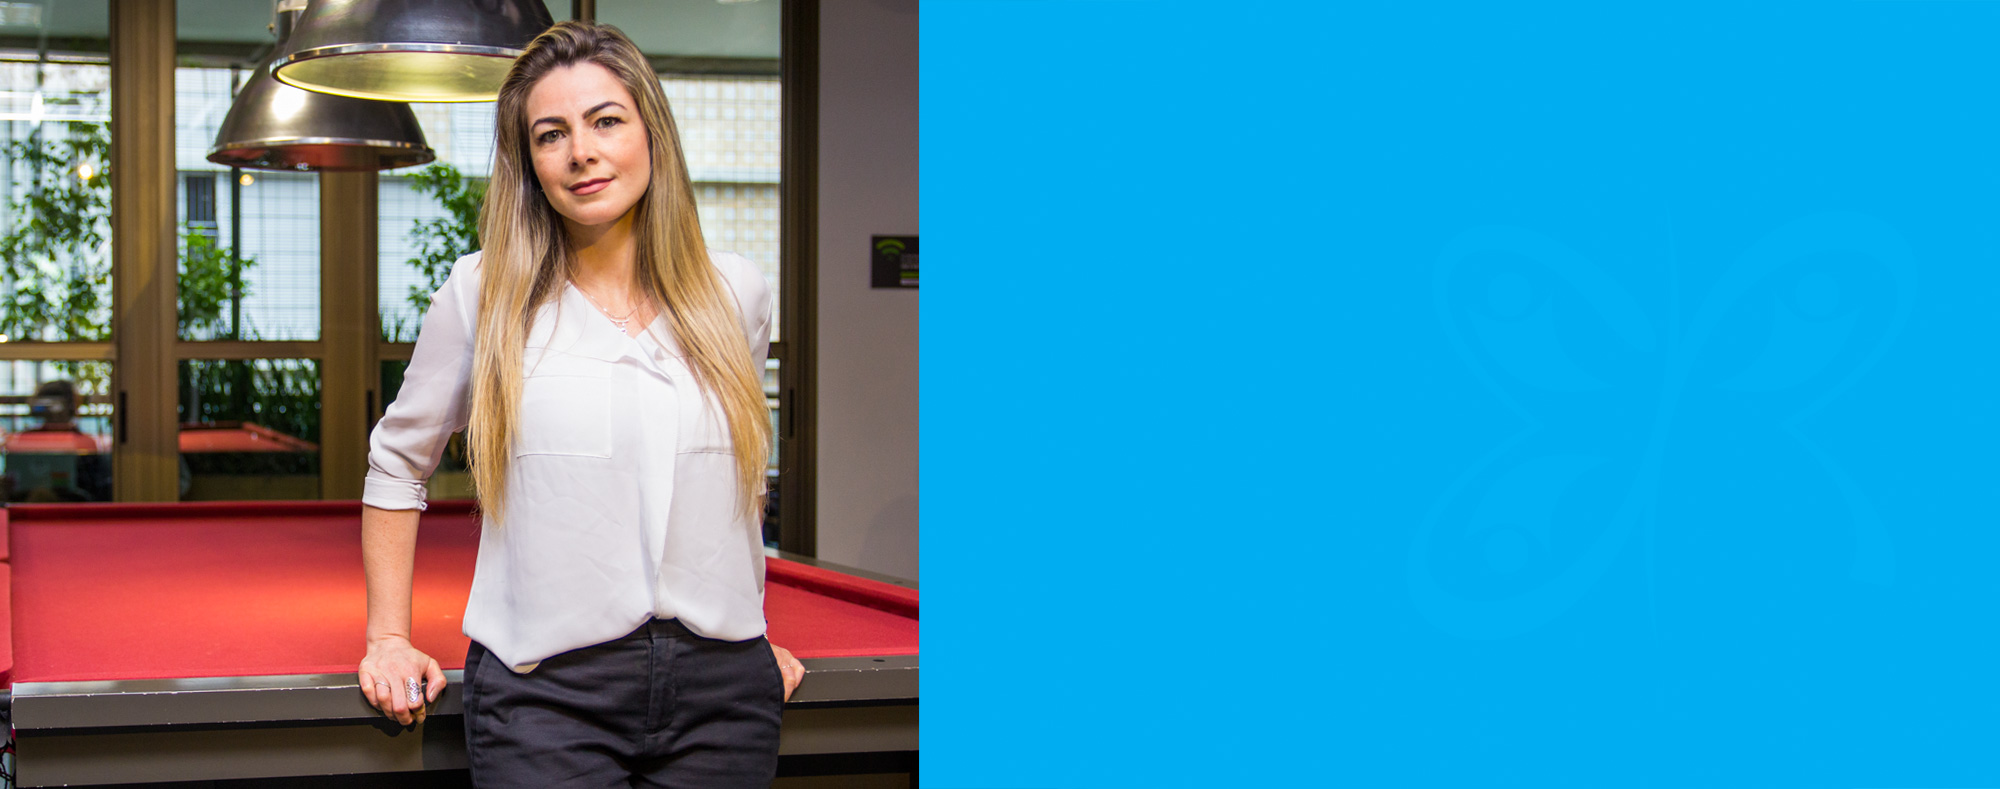
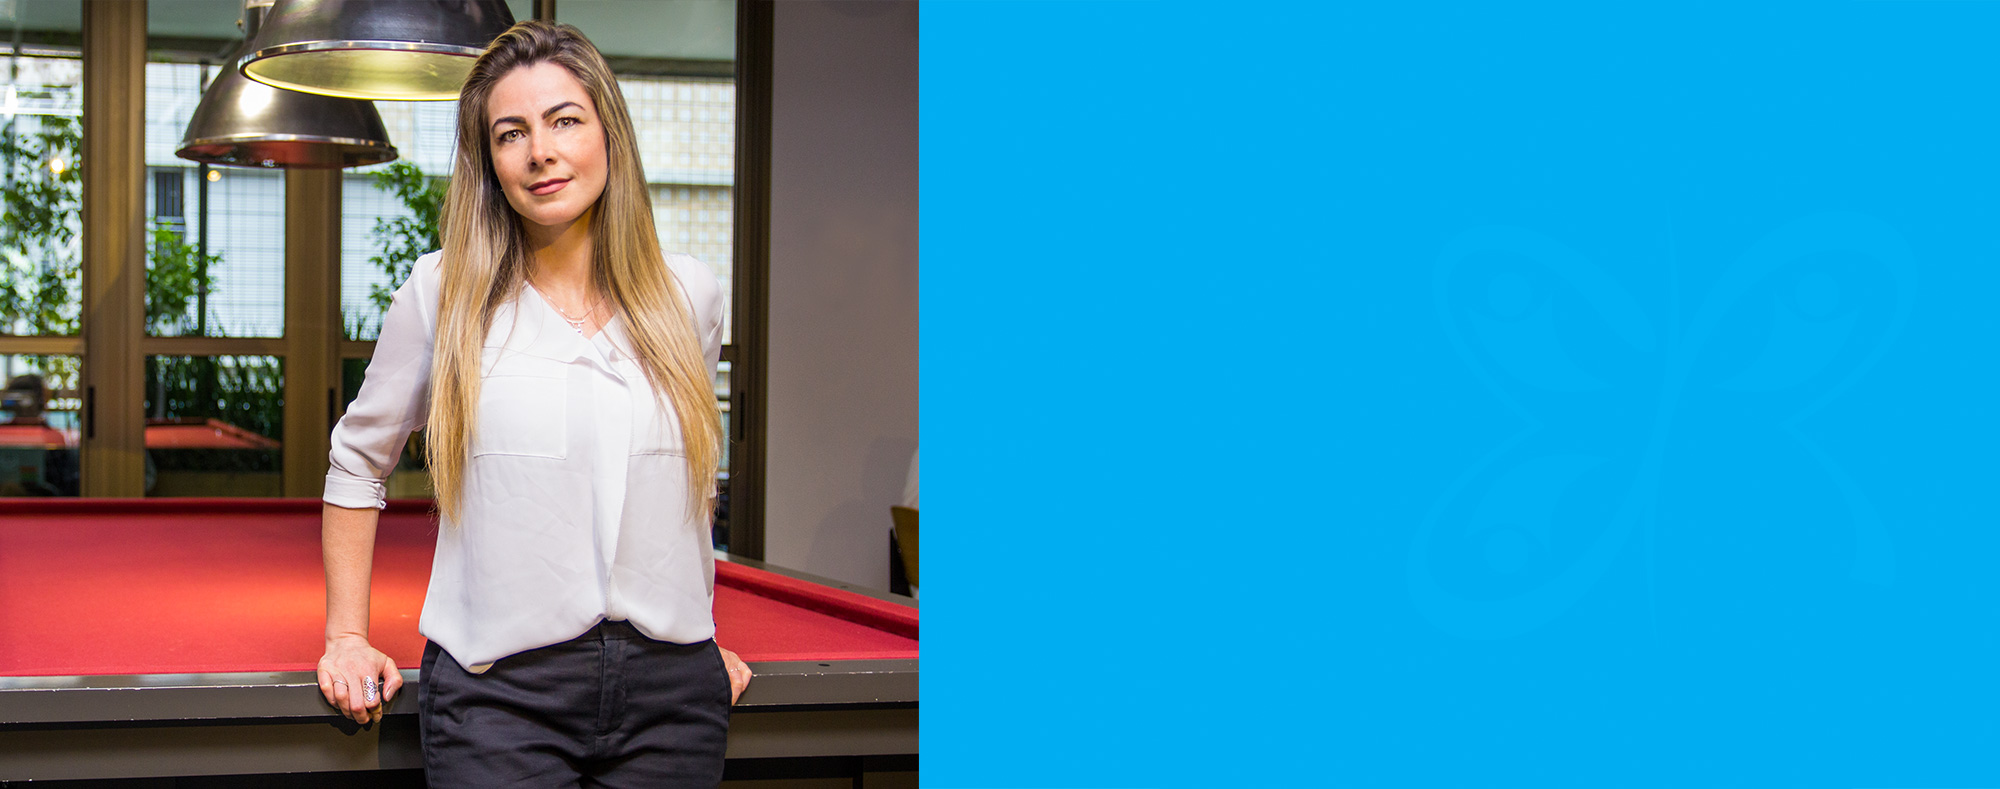
ultimas alteracoes

Changed region(s): [[0.0, 0.0, 0.465, 1.0]]

diff --git a/style.css b/style.css
@@ -414,19 +414,20 @@ Nicolas Gallagher and Jonathan Neal http://necolas.github.com/normalize.css/
     border-radius: 5px;
     color: #606060; }
   #page .input-contato {
-    padding: 15px 10px;
-    border: 1px solid #cecece;
-    border-radius: 5px;
+    padding: 10px 15px;
+    border: 0;
+    background-color: #f0f2f4;
+    border-radius: 25px;
     width: 100%;
     margin-bottom: 10px; }
   #page .btn-contato {
-    background-color: #005197;
-    padding: 15px 70px;
-    border-radius: 5px;
-    color: white;
-    border: 0; }
+    border-radius: 25px;
+    background-color: #ff4679;
+    color: #FFF;
+    border: 0;
+    padding: 15px 50px; }
   #page .btn-contato:hover {
-    background-color: #6696c0; }
+    background-color: #fa7e9f; }
   #page .btn-rosa {
     padding: 15px 60px;
     border-radius: 50px;
@@ -490,6 +491,9 @@ Nicolas Gallagher and Jonathan Neal http://necolas.github.com/normalize.css/
   width: 100%;
   height: 100%; }
 
+.flexslider {
+  margin-bottom: 0 !important; }
+
 .cor-amarelo {
   color: #ffc709; }
 
@@ -501,6 +505,33 @@ Nicolas Gallagher and Jonathan Neal http://necolas.github.com/normalize.css/
   opacity: 0.6;
   filter: alpha(opacity=60);
   /* For IE8 and earlier */ }
+
+/* Preloader */
+#preloader {
+  position: fixed;
+  top: 0;
+  left: 0;
+  right: 0;
+  bottom: 0;
+  background-color: #fff;
+  /* change if the mask should have another color then white */
+  z-index: 99;
+  /* makes sure it stays on top */ }
+
+#status {
+  width: 260px;
+  height: 200px;
+  position: absolute;
+  left: 50%;
+  /* centers the loading animation horizontally one the screen */
+  top: 50%;
+  /* centers the loading animation vertically one the screen */
+  background-image: url("images/preloader.gif");
+  /* path to your loading animation */
+  background-repeat: no-repeat;
+  background-position: center;
+  margin: -130px 0 0 -130px;
+  /* is width and height divided by two */ }
 
 .paginacao .page-numbers {
   padding: 5px;

diff --git a/style.scss b/style.scss
@@ -77,23 +77,24 @@ Nicolas Gallagher and Jonathan Neal http://necolas.github.com/normalize.css/
 	}
 
 	.input-contato{
-		padding:15px 10px;
-		border:1px solid #cecece;
-		border-radius: 5px;
+		padding:10px 15px;
+		border:0;
+		background-color:#f0f2f4;
+		border-radius: 25px;
 		width:100%;
 		margin-bottom:10px;
 	}
 
 	.btn-contato{
-		background-color:#005197;
-		padding:15px 70px;
-		border-radius: 5px;
-		color:white;
-		border:0;
+		border-radius: 25px;
+        background-color:#ff4679;
+        color:#FFF;
+       	border:0;
+        padding:15px 50px;
 	}
 
 	.btn-contato:hover{
-		background-color:#6696c0;
+		background-color:#fa7e9f;
 	}
 
 	.btn-rosa{
@@ -175,6 +176,10 @@ Nicolas Gallagher and Jonathan Neal http://necolas.github.com/normalize.css/
     height: 100%;
 }	
 
+.flexslider{
+	margin-bottom:0 !important;
+}
+
 .cor-amarelo{
 	color:#ffc709;
 }
@@ -188,6 +193,37 @@ Nicolas Gallagher and Jonathan Neal http://necolas.github.com/normalize.css/
     opacity: 0.6;
     filter: alpha(opacity=60); /* For IE8 and earlier */
 }
+
+/* Preloader */
+
+#preloader {
+  position: fixed;
+  top: 0;
+  left: 0;
+  right: 0;
+  bottom: 0;
+  background-color: #fff;
+  /* change if the mask should have another color then white */
+  z-index: 99;
+  /* makes sure it stays on top */
+}
+
+#status {
+  width: 260px;
+  height: 200px;
+  position: absolute;
+  left: 50%;
+  /* centers the loading animation horizontally one the screen */
+  top: 50%;
+  /* centers the loading animation vertically one the screen */
+  background-image: url("images/preloader.gif");;
+  /* path to your loading animation */
+  background-repeat: no-repeat;
+  background-position: center;
+  margin: -130px 0 0 -130px;
+  /* is width and height divided by two */
+}
+
 
 .paginacao{
 	.page-numbers{

diff --git a/js/script.js b/js/script.js
@@ -6,5 +6,12 @@
 		$(this).next().slideDown();
 	})
 
+	$(window).on('load', function() { // makes sure the whole site is loaded 
+		$('#status').fadeOut(); // will first fade out the loading animation 
+		$('#preloader').delay(350).fadeOut('slow'); // will fade out the white DIV that covers the website.
+		$('body').delay(400).queue(function (next) { 
+			$(this).css({'overflow':'visible'}); next(); 
+		});
 
+	})
 } )( jQuery );

diff --git a/header.php b/header.php
@@ -32,6 +32,9 @@ new WOW().init();
   js.src = 'https://connect.facebook.net/pt_BR/sdk.js#xfbml=1&version=v2.11';
   fjs.parentNode.insertBefore(js, fjs);
 }(document, 'script', 'facebook-jssdk'));</script>
+<div id="preloader">
+  <div id="status">&nbsp;</div>
+</div>
 <div id="page">
 	<section id="header">
 		<header>
@@ -39,16 +42,16 @@ new WOW().init();
 				<div class="row">
 					<div class="col-md-2">
 			            <img class="e-claro" src="<?php echo dirname( get_bloginfo('stylesheet_url'))."/images/tel.png"; ?>" />
-			            <span>11 1234-5678</span>
+			            <span>11 94245-7275</span>
 			          </div>
-			          <div class="col-md-3">
+			          <div class="col-md-4">
 			            <img class="e-claro" src="<?php echo dirname( get_bloginfo('stylesheet_url'))."/images/email.png"; ?>" />
-			            <span>contato@euquerocomecar.com.br</span>
+			            <span>regiane@euquerorecomecar.com.br</span>
 			          </div>
-					<div class="col-md-3 col-md-offset-4">
+					<div class="col-md-3 col-md-offset-3">
 						<ul class="redes_sociais_header clearfix">
-			              <li class="youtube"><a target="_blank" href="#"></a></li>
-			              <li class="instagram"><a target="_blank" href="#"></a></li>
+			              <li class="youtube"><a target="_blank" href="https://www.linkedin.com/in/regiane-kiiro-7940265b/"></a></li>
+			              <li class="instagram"><a target="_blank" href="https://www.instagram.com/coachregianekiiro"></a></li>
 			              <li class="twitter"><a target="_blank" href="#"></a></li>
 			              <li class="facebook"><a target="_blank" href="#"></a></li>
 			              <li class="linkedin"><a target="_blank" href="https://www.facebook.com/euquerorecomecar/"></a></li>

diff --git a/footer.php b/footer.php
@@ -39,9 +39,9 @@
 					<ul class="redes_sociais_header">
 			              <li class="youtube"><a target="_blank" href="https://www.facebook.com/euquerorecomecar/"></a></li>
 			              <li class="instagram"><a target="_blank" href="#"></a></li>
-			              <li class="twitter"><a target="_blank" href="#"></a></li>
+			              <li class="twitter"><a target="_blank" href="https://www.instagram.com/coachregianekiiro"></a></li>
 			              <li class="facebook"><a target="_blank" href="#"></a></li>
-			              <li class="linkedin"><a target="_blank" href="#"></a></li>
+			              <li class="linkedin"><a target="_blank" href="https://www.linkedin.com/in/regiane-kiiro-7940265b/"></a></li>
 					</ul>
 				</div>
 			</div>

diff --git a/index.php b/index.php
@@ -17,7 +17,7 @@ get_header(); ?>
 	<div class="container">
 		<div class="row">
 			<?php
-			echo do_shortcode("[metaslider id=14]"); 
+			echo do_shortcode("[metaslider id=4]"); 
 			?>
 		</div>
 	</div>
@@ -87,7 +87,7 @@ antecipe resultados.   </p>
 		</div>
 		<div class="row text-left">
 			<div class="col-md-6 col-md-offset-6">
-				<p class="fadeInUp wow ">Oi! Sou Regiane Kiiro, mãe da Bruna de 21 anos e do Thiago de 5 anos. 
+				<p class="fadeInUp wow ">Oi! Sou Regiane Kiiro, mãe da Bruna e do Thiago. 
 	Sou Paulistana do bairro da Saúde e cresci na Zona Leste de São Paulo. 
 	Me formei em Administração de Empresas com ênfase na área 
 	hospitalar, porém, não me sentia realizada e plena em minha profissão 

diff --git a/page-contato.php b/page-contato.php
@@ -14,7 +14,11 @@ get_header(); ?>
 		<div class="row">
 			<div class="col-md-6 text-left">
 				<h3>Entre em contato comigo, responderei o mais breve</h3><br>
-				form
+				<?php while ( have_posts() ) : the_post(); ?>
+
+						<?php the_content(); ?>
+
+					<?php endwhile; // End of the loop. ?>
 			</div>
 			<div class="col-md-5 col-md-offset-1 text-left">
 				<img class="e-claro" src="<?php echo dirname( get_bloginfo('stylesheet_url'))."/images/whats.jpg"; ?>" />
